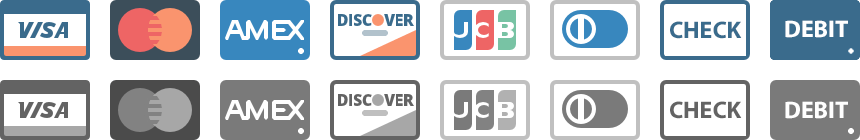
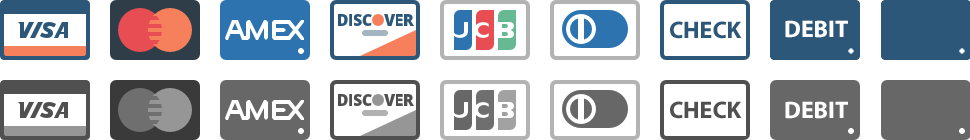
adding generic credit card image and style

diff --git a/docs/styling/icons.html b/docs/styling/icons.html
@@ -1243,6 +1243,7 @@
             </p>
           </header>
           <figure class='pad2'>
+            <div class='credit-card'></div>
             <div class='credit-card visa'></div>
             <div class='credit-card master-card'></div>
             <div class='credit-card american-express'></div>
@@ -1256,6 +1257,7 @@
             <div class='pin-topright pad0y pad1x fill-darken3 dark small'>
               .disabled
             </div>            
+            <div class='credit-card disabled'></div>
             <div class='credit-card visa disabled'></div>
             <div class='credit-card master-card disabled'></div>
             <div class='credit-card american-express disabled'></div>
@@ -1270,6 +1272,7 @@
               <i class='icon icon-clipboard pad0r'></i>Copy
             </a>
 <pre class='prettyprint' id='credit-cards'>
+&lt;div class='credit-card'&gt;&lt;/div&gt;
 &lt;div class='credit-card visa'&gt;&lt;/div&gt;
 &lt;div class='credit-card master-card'&gt;&lt;/div&gt;
 &lt;div class='credit-card american-express'&gt;&lt;/div&gt;
@@ -1279,6 +1282,7 @@
 &lt;div class='credit-card check'&gt;&lt;/div&gt;
 &lt;div class='credit-card direct-debit'&gt;&lt;/div&gt;
 
+&lt;div class='credit-card disabled'&gt;&lt;/div&gt;
 &lt;div class='credit-card visa disabled'&gt;&lt;/div&gt;
 &lt;div class='credit-card master-card disabled'&gt;&lt;/div&gt;
 &lt;div class='credit-card american-express disabled'&gt;&lt;/div&gt;

diff --git a/less/glyphicons.less b/less/glyphicons.less
@@ -327,13 +327,13 @@
 
 /* Credit card icons */
 .credit-card {
-  background:~"url('@{image-path}credit-cards@2x.png')" 0 0 no-repeat;
+  background:~"url('@{image-path}credit-cards@2x.png')" -440 0 no-repeat;
   height:30px;
   width:45px;
   display:inline-block;
   vertical-align:top;
-  -webkit-background-size:430px 70px;
-          background-size:430px 70px;
+  -webkit-background-size:485px 70px;
+          background-size:485px 70px;
 
   &.visa                       { background-position:0      0; }
   &.master-card                 { background-position:-55px  0; }
@@ -344,6 +344,7 @@
   &.check                      { background-position:-330px 0; }
   &.direct-debit               { background-position:-385px 0; }
 
+  &.disabled                   { background-position:-440px -40px; }
   &.disabled.visa              { background-position:0      -40px; }
   &.disabled.master-card        { background-position:-55px  -40px; }
   &.disabled.american-express  { background-position:-110px -40px; }
